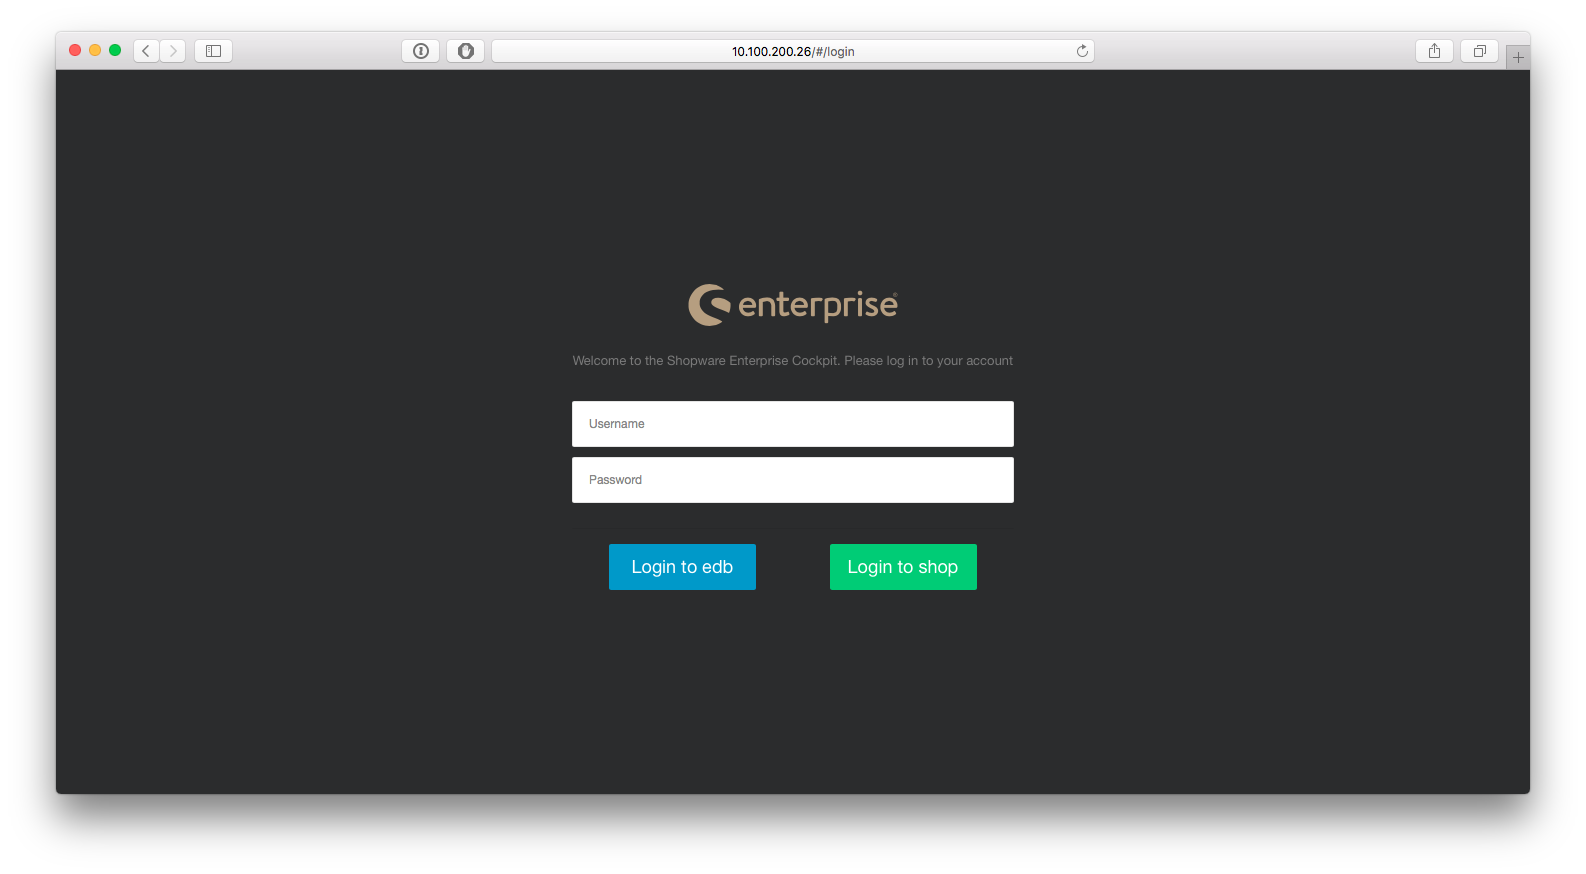
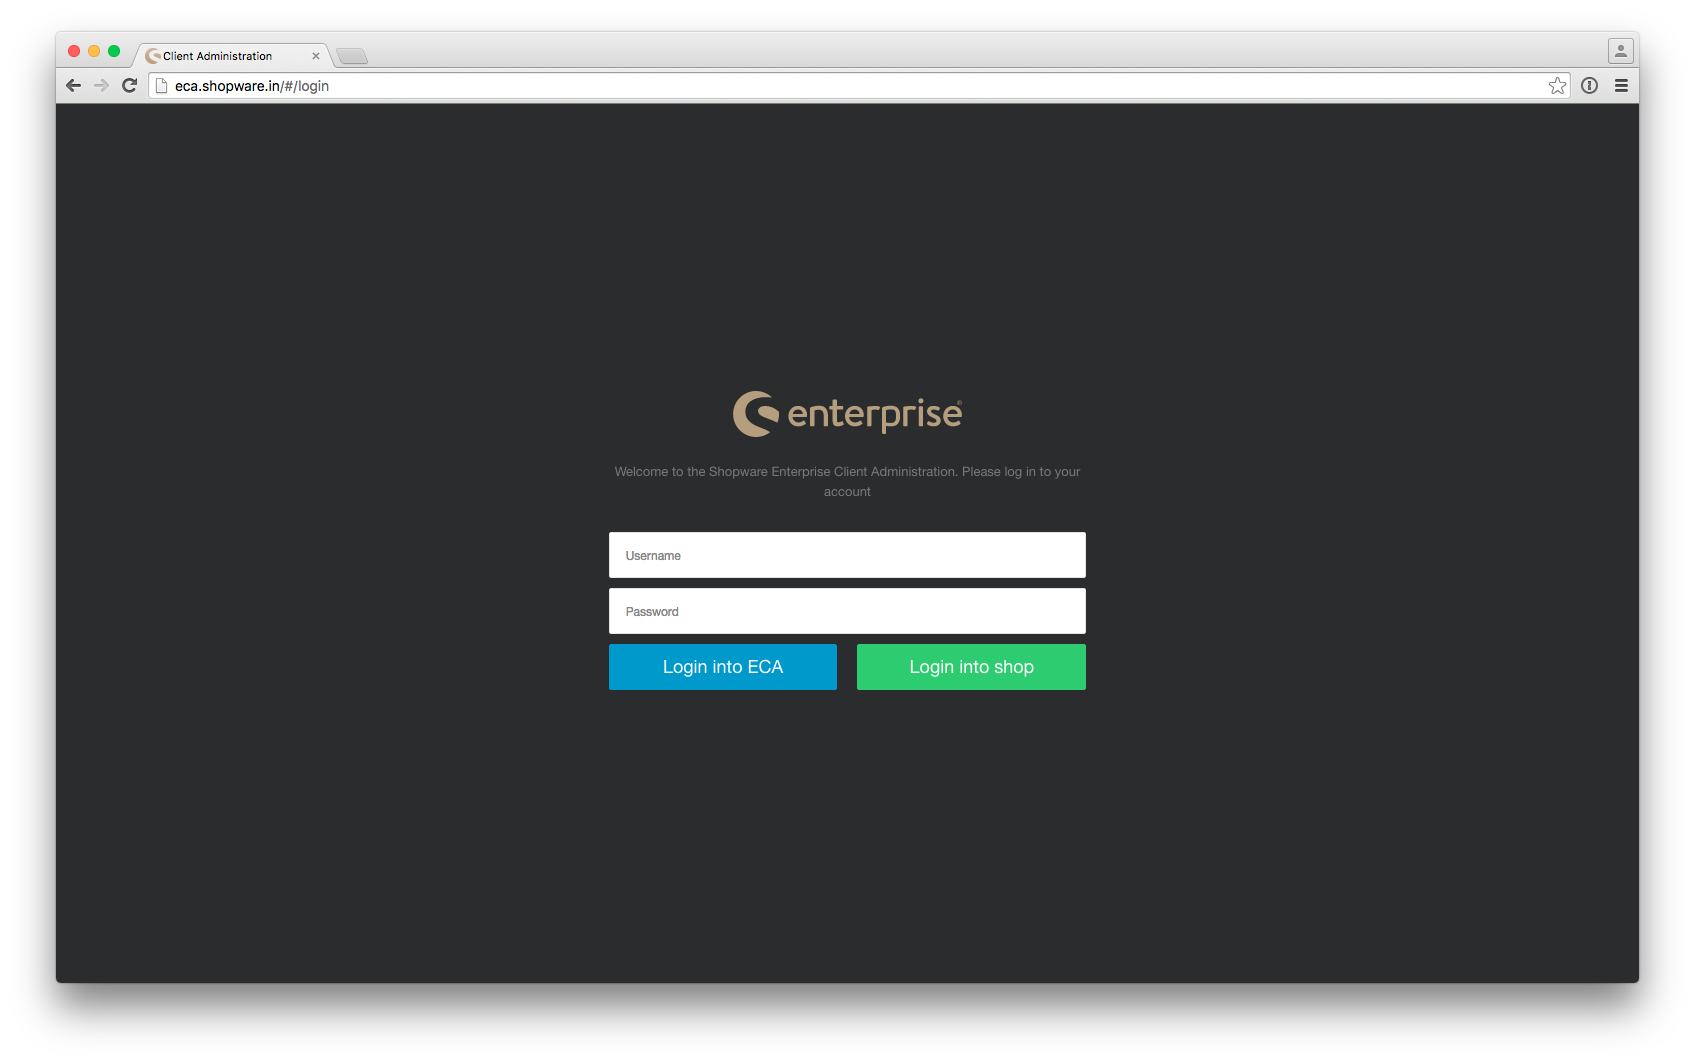
Updated eca articles

Changed region(s): [[0.0309, 0.0309, 0.9887, 0.9577], [0.3398, 0.3089, 0.6488, 0.6796]]

diff --git a/source/enterprise/index.html b/source/enterprise/index.html
@@ -10,7 +10,7 @@ github_link: enterprise/index.html
 to provide central backend logins for all your users to all your Shopware shops.
 Furthermore it will synchronize your Shopware licenses and update, install and clone shops.
 </p>
-<p>The Enterprise client administration can be downloaded from the Shopware account, if an enterprise license with
+<p>The Enterprise client administration can be <a href="https://account.shopware.com/#/enterprise">downloaded</a> from the Shopware account, if an enterprise license with
 subscription is available.</p> 
 
 <h2>User's guide</h2>
@@ -20,8 +20,7 @@ subscription is available.</p>
 
 <h2>Technical guide</h2>
 <ul>
-
-    <li><a href="{{ site.url }}/enterprise/tech-guide/installation-guide/">Enterprise Client Administration  installation guide</a></li>
+    <li><a href="{{ site.url }}/enterprise/tech-guide/installation-guide/">Enterprise Client Administration installation guide</a></li>
     <li><a href="{{ site.url }}/enterprise/tech-guide/shopware-server-configuration-guide/">Shopware server configuration guide</a></li>
     <li><a href="{{ site.url }}/enterprise/tech-guide/backup-eca-guide/">Backup the Enterprise Client Administration</a></li>
 </ul>

diff --git a/source/enterprise/user-guide/getting-started/index.md b/source/enterprise/user-guide/getting-started/index.md
@@ -2,7 +2,7 @@
 layout: default
 title: Getting started with the Client Administration
 github_link: enterprise/user-guide/getting-started/index.md
-indexed: false
+indexed: true
 ---
 
 This guide will give you an overview of the basic usage of the Enterprise Client Administration (ECA).
@@ -19,6 +19,8 @@ Navigate your browser to your ECA instance. The following login screen will appe
 After entering the username and password you can navigate (1) to the ECA itself or (2) to the quick shop login.
 
 ## Dashboard
+
+![image](img/eca-dashboard.png)
 
 Once you logged in to the ECA, you will be taken to the Dashboard tab. This will allow you quick access to your
 Shopware installations and aggregated data. On the top of the page, you can select one of the shops you currently have
@@ -186,3 +188,12 @@ As mentioned before, several actions in ECA take place asynchronously in the bac
  the history and state of these actions. You can also filter these logs by server, shop, user or state, so if you are
  having trouble with a specific process, you can view it here. You can also open each log entry individually to get more
  detailed information about it. This can be particularly helpful for debugging failing processes.
+
+![image](img/eca-logs-detail.png)
+
+## Quick Login
+
+![image](img/eca-quicklogin.png)
+
+The second side to which oyu can login is the Quick login. Here you can directly [Single Sign-on](https://en.wikipedia.org/wiki/Single_sign-on)
+to all for your available shops's backend and also come to their storefronts.

diff --git a/source/enterprise/tech-guide/installation-guide.md b/source/enterprise/tech-guide/installation-guide.md
@@ -2,10 +2,10 @@
 layout: default
 title: Shopware Client Administration Installation Guide
 github_link: enterprise/tech-guide/installation-guide.md
-indexed: false
+indexed: true
 ---
 
-This guide will cover the Shopware Client Administration installation process
+This guide will cover the [Shopware Client Administration](https://account.shopware.com/#/enterprise) installation process.
 
 <div class="toc-list"></div>
 

diff --git a/source/enterprise/tech-guide/shopware-server-configuration-guide.md b/source/enterprise/tech-guide/shopware-server-configuration-guide.md
@@ -2,7 +2,7 @@
 layout: default
 title: Shopware Server Configuration Guide
 github_link: enterprise/tech-guide/shopware-server-configuration-guide.md
-indexed: false
+indexed: true
 ---
 
 This guide describes how you need to configure your Shopware servers in order to be compatible with the Client Administration.

diff --git a/source/enterprise/tech-guide/backup-eca-guide.md b/source/enterprise/tech-guide/backup-eca-guide.md
@@ -2,7 +2,7 @@
 layout: default
 title: Backup the Client Administration
 github_link: enterprise/tech-guide/backup-eca-guide.md
-indexed: false
+indexed: true
 ---
 
 This guide describes how you back up the Enterprise Client Administration.
